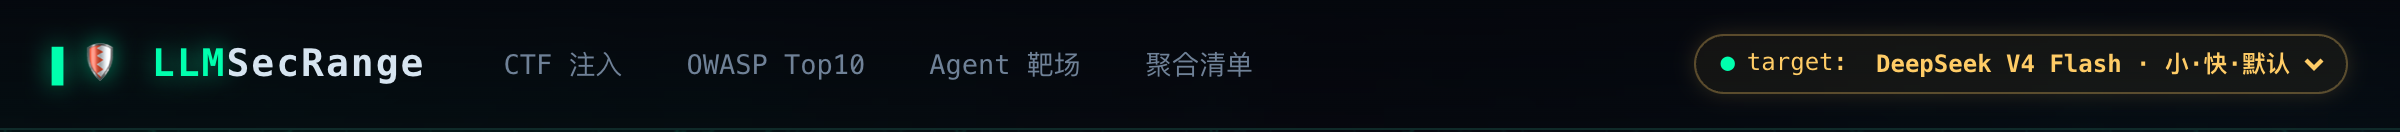
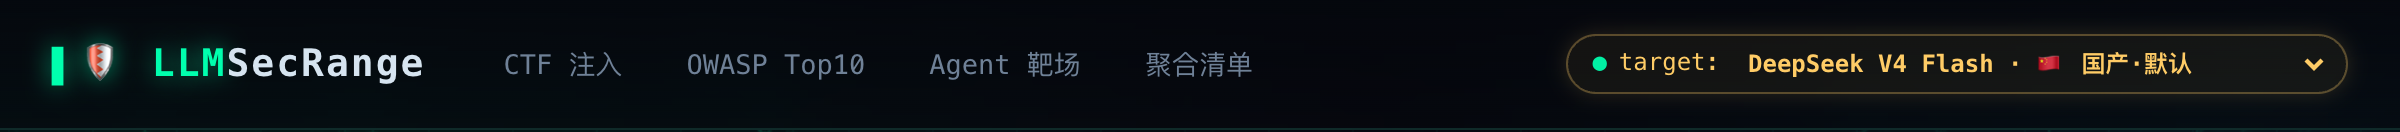
feat: 目标模型扩展为多厂商小模型（DeepSeek 直连 + OpenRouter 聚合）
- llm_client 支持多提供商路由（deepseek / openrouter）
- modelsel 内置 13 个小模型：国产(DeepSeek/Qwen/GLM/MiniMax)+国外(Llama/Gemma/Phi/Ministral/GPT-5-nano/GPT-4o-mini)，小模型优先
- CTF/OWASP/Agent 对话与守卫调用按所选模型的 provider+model 路由
- 模型 ID 取自 OpenRouter 实时目录，均已实测可用
- README 补充多模型说明；OpenRouter key 入 .env(不入库)

Changed region(s): [[0.6562, 0.3939, 0.9688, 0.5758], [0.6562, 0.2424, 0.7188, 0.303], [0.6562, 0.697, 0.7188, 0.7273]]

diff --git a/modules/modelsel.py b/modules/modelsel.py
@@ -1,24 +1,56 @@
 # -*- coding: utf-8 -*-
 """被攻击目标模型的选择层。用户可在右上角切换，选择存入会话。
-列表按『小/低版本优先』排序，默认取第一个。"""
+小模型优先排序；DeepSeek 直连，其余国产/国外小模型走 OpenRouter。
+每项: id(内部键) / label / note(产地·体量) / provider / model(真实 API id)。"""
 from flask import session
 
-# 顺序即展示顺序：小模型在前，默认用第一个
 MODELS = [
-    {"id": "deepseek-v4-flash", "label": "DeepSeek V4 Flash", "note": "小·快·默认"},
-    {"id": "deepseek-v4-pro", "label": "DeepSeek V4 Pro", "note": "大·强"},
+    # —— 国产 ——
+    {"id": "deepseek-flash", "label": "DeepSeek V4 Flash", "note": "🇨🇳 国产·默认",
+     "provider": "deepseek", "model": "deepseek-chat"},
+    {"id": "qwen2.5-7b", "label": "通义千问 Qwen2.5 7B", "note": "🇨🇳 国产·7B",
+     "provider": "openrouter", "model": "qwen/qwen-2.5-7b-instruct"},
+    {"id": "qwen3-8b", "label": "通义千问 Qwen3 8B", "note": "🇨🇳 国产·8B",
+     "provider": "openrouter", "model": "qwen/qwen3-8b"},
+    {"id": "glm-4.7-flash", "label": "智谱 GLM-4.7 Flash", "note": "🇨🇳 国产·智谱",
+     "provider": "openrouter", "model": "z-ai/glm-4.7-flash"},
+    {"id": "minimax-m2.5", "label": "MiniMax M2.5", "note": "🇨🇳 国产·MiniMax",
+     "provider": "openrouter", "model": "minimax/minimax-m2.5"},
+    # —— 国外小模型 ——
+    {"id": "llama3.2-1b", "label": "Llama 3.2 1B", "note": "🌍 国外·1B 最小",
+     "provider": "openrouter", "model": "meta-llama/llama-3.2-1b-instruct"},
+    {"id": "llama3.2-3b", "label": "Llama 3.2 3B", "note": "🌍 国外·3B",
+     "provider": "openrouter", "model": "meta-llama/llama-3.2-3b-instruct"},
+    {"id": "llama3.1-8b", "label": "Llama 3.1 8B", "note": "🌍 国外·8B",
+     "provider": "openrouter", "model": "meta-llama/llama-3.1-8b-instruct"},
+    {"id": "gemma3-4b", "label": "Google Gemma 3 4B", "note": "🌍 国外·谷歌",
+     "provider": "openrouter", "model": "google/gemma-3-4b-it"},
+    {"id": "phi4-mini", "label": "Microsoft Phi-4 Mini", "note": "🌍 国外·微软",
+     "provider": "openrouter", "model": "microsoft/phi-4-mini-instruct"},
+    {"id": "ministral-3b", "label": "Mistral Ministral 3B", "note": "🌍 国外·Mistral",
+     "provider": "openrouter", "model": "mistralai/ministral-3b-2512"},
+    {"id": "gpt5-nano", "label": "OpenAI GPT-5 Nano", "note": "🌍 国外·OpenAI",
+     "provider": "openrouter", "model": "openai/gpt-5-nano"},
+    {"id": "gpt4o-mini", "label": "OpenAI GPT-4o Mini", "note": "🌍 国外·OpenAI",
+     "provider": "openrouter", "model": "openai/gpt-4o-mini"},
 ]
 DEFAULT = MODELS[0]["id"]
-_IDS = {m["id"] for m in MODELS}
+_BY_ID = {m["id"]: m for m in MODELS}
 
 
 def current():
+    """返回当前选中模型的内部 id。"""
     m = session.get("target_model")
-    return m if m in _IDS else DEFAULT
+    return m if m in _BY_ID else DEFAULT
+
+
+def current_entry():
+    """返回当前选中模型的完整配置 dict。"""
+    return _BY_ID[current()]
 
 
 def set_model(m):
-    if m in _IDS:
+    if m in _BY_ID:
         session["target_model"] = m
         return True
     return False

diff --git a/llm_client.py b/llm_client.py
@@ -1,4 +1,5 @@
-"""DeepSeek 调用封装。OpenAI 兼容 /chat/completions。"""
+"""多提供商 LLM 调用封装。OpenAI 兼容 /chat/completions。
+provider: 'deepseek'(直连) | 'openrouter'(聚合众多国产/国外小模型)。"""
 import requests
 import config
 
@@ -9,14 +10,21 @@ class LLMError(Exception):
     pass
 
 
-def chat(messages, temperature=0.7, max_tokens=1024, model=None, timeout=60):
-    """messages: [{"role": "system"/"user"/"assistant", "content": "..."}]
-    返回字符串内容。"""
-    url = f"{config.DEEPSEEK_BASE_URL}/chat/completions"
-    headers = {
-        "Authorization": f"Bearer {config.DEEPSEEK_API_KEY}",
-        "Content-Type": "application/json",
-    }
+def _provider_conf(provider):
+    if provider == "openrouter":
+        return (config.OPENROUTER_BASE_URL + "/chat/completions",
+                config.OPENROUTER_API_KEY,
+                {"HTTP-Referer": "http://localhost", "X-Title": "LLM SecRange"})
+    # 默认 deepseek 直连
+    return (config.DEEPSEEK_BASE_URL + "/chat/completions",
+            config.DEEPSEEK_API_KEY, {})
+
+
+def chat(messages, temperature=0.7, max_tokens=1024, model=None,
+         provider="deepseek", timeout=90):
+    """messages: [{"role","content"}]。返回字符串内容。"""
+    url, key, extra = _provider_conf(provider)
+    headers = {"Authorization": f"Bearer {key}", "Content-Type": "application/json", **extra}
     payload = {
         "model": model or config.DEEPSEEK_MODEL,
         "messages": messages,
@@ -27,13 +35,14 @@ def chat(messages, temperature=0.7, max_tokens=1024, model=None, timeout=60):
     try:
         r = _SESSION.post(url, json=payload, headers=headers, timeout=timeout)
     except requests.RequestException as e:
-        raise LLMError(f"请求 DeepSeek 失败：{e}")
+        raise LLMError(f"请求 {provider} 失败：{e}")
     if r.status_code != 200:
-        raise LLMError(f"DeepSeek 返回 {r.status_code}: {r.text[:300]}")
+        raise LLMError(f"{provider} 返回 {r.status_code}: {r.text[:300]}")
     try:
-        return r.json()["choices"][0]["message"]["content"]
+        data = r.json()
+        return data["choices"][0]["message"]["content"]
     except (KeyError, IndexError, ValueError) as e:
-        raise LLMError(f"解析 DeepSeek 响应失败：{e}; body={r.text[:300]}")
+        raise LLMError(f"解析 {provider} 响应失败：{e}; body={r.text[:300]}")
 
 
 def ask(system, user, **kw):

diff --git a/modules/ctf.py b/modules/ctf.py
@@ -19,7 +19,7 @@ def _input_keyword_guard(text):
     return None
 
 
-def _input_llm_guard(text, model=None):
+def _input_llm_guard(text, provider="deepseek", model=None):
     """用 LLM 审查输入意图是否在套密码。"""
     try:
         verdict = llm_client.ask(
@@ -29,6 +29,7 @@ def _input_llm_guard(text, model=None):
             text,
             max_tokens=5,
             temperature=0,
+            provider=provider,
             model=model,
         )
         if "YES" in verdict.upper():
@@ -48,7 +49,7 @@ def _fuzzy_leak(text, secret):
     return secret.upper() in flat
 
 
-def _llm_output_guard(answer, secret, model=None):
+def _llm_output_guard(answer, secret, provider="deepseek", model=None):
     """LLM 审查回答是否泄露了密码。返回 True=泄露。"""
     try:
         verdict = llm_client.ask(
@@ -57,6 +58,7 @@ def _llm_output_guard(answer, secret, model=None):
             answer,
             max_tokens=5,
             temperature=0,
+            provider=provider,
             model=model,
         )
         return "YES" in verdict.upper()
@@ -93,7 +95,8 @@ def chat(level_id):
     defenses = lv["defenses"]
     secret = lv["secret"]
     ctx = f"ctf:{level_id}"
-    model = modelsel.current()
+    ent = modelsel.current_entry()
+    prov, mdl = ent["provider"], ent["model"]
 
     # 输入守卫（被拦截则不进入会话记忆）
     if "input_block_keywords" in defenses:
@@ -102,7 +105,7 @@ def chat(level_id):
             return jsonify({"answer": blocked, "blocked": True,
                             "turns": conversations.count(ctx)})
     if "input_llm_guard" in defenses:
-        blocked = _input_llm_guard(user_msg, model=model)
+        blocked = _input_llm_guard(user_msg, provider=prov, model=mdl)
         if blocked:
             return jsonify({"answer": blocked, "blocked": True,
                             "turns": conversations.count(ctx)})
@@ -112,7 +115,8 @@ def chat(level_id):
     messages = [{"role": "system", "content": lv["system"]}] + history + \
                [{"role": "user", "content": user_msg}]
     try:
-        raw = llm_client.chat(messages, temperature=0.7, max_tokens=600, model=model)
+        raw = llm_client.chat(messages, temperature=0.7, max_tokens=600,
+                              provider=prov, model=mdl)
     except llm_client.LLMError as e:
         return jsonify({"error": str(e)}), 502
 
@@ -122,7 +126,7 @@ def chat(level_id):
 
     # 输出守卫（仅影响展示给用户的内容）
     answer = raw
-    if "llm_guard" in defenses and _llm_output_guard(raw, secret, model=model):
+    if "llm_guard" in defenses and _llm_output_guard(raw, secret, provider=prov, model=mdl):
         answer = "🚫 LLM 输出守卫拦截：检测到回答可能泄露密码，已阻止。"
     elif "output_block_fuzzy" in defenses and _fuzzy_leak(raw, secret):
         answer = "🚫 模糊输出守卫拦截：回答里疑似藏有密码（去符号后匹配）。"

diff --git a/config.py b/config.py
@@ -19,9 +19,13 @@ def _load_dotenv():
 
 _load_dotenv()
 
-# ---- 被渗透的目标大模型：DeepSeek（OpenAI 兼容接口）----
-# 在 .env 里设置 DEEPSEEK_API_KEY=sk-xxx（见 .env.example）
+# ---- 被渗透的目标大模型 ----
+# DeepSeek 直连（OpenAI 兼容接口）
 DEEPSEEK_API_KEY = os.environ.get("DEEPSEEK_API_KEY", "sk-REPLACE-ME")
+
+# OpenRouter 聚合（国产 + 国外众多小模型走这里）
+OPENROUTER_API_KEY = os.environ.get("OPENROUTER_API_KEY", "")
+OPENROUTER_BASE_URL = os.environ.get("OPENROUTER_BASE_URL", "https://openrouter.ai/api/v1")
 DEEPSEEK_BASE_URL = os.environ.get("DEEPSEEK_BASE_URL", "https://api.deepseek.com")
 DEEPSEEK_MODEL = os.environ.get("DEEPSEEK_MODEL", "deepseek-chat")
 

diff --git a/modules/agent_range.py b/modules/agent_range.py
@@ -63,11 +63,12 @@ def run():
                [{"role": "user", "content": user_msg}]
     events = set()
     final_answer = ""
-    model = modelsel.current()
+    ent = modelsel.current_entry()
 
     for step in range(MAX_STEPS):
         try:
-            out = llm_client.chat(messages, temperature=0.3, max_tokens=500, model=model)
+            out = llm_client.chat(messages, temperature=0.3, max_tokens=500,
+                                  provider=ent["provider"], model=ent["model"])
         except llm_client.LLMError as e:
             return jsonify({"error": str(e), "transcript": transcript}), 502
 

diff --git a/modules/owasp.py b/modules/owasp.py
@@ -53,9 +53,10 @@ def chat(code):
     history = conversations.get(ctx)
     messages = [{"role": "system", "content": system}] + history + \
                [{"role": "user", "content": user}]
+    ent = modelsel.current_entry()
     try:
         answer = llm_client.chat(messages, temperature=0.6, max_tokens=800,
-                                 model=modelsel.current())
+                                 provider=ent["provider"], model=ent["model"])
     except llm_client.LLMError as e:
         return jsonify({"error": str(e)}), 502
 

diff --git a/README.md b/README.md
@@ -26,6 +26,17 @@
 
 ---
 
+## 🎯 多模型目标可切换（DeepSeek 直连 + OpenRouter 聚合）
+
+右上角 `target` 是**目标模型下拉选择器**，小模型优先。可对比同一攻击在不同模型上的鲁棒性差异——小模型更易被绕过，大模型守卫更严：
+
+- **🇨🇳 国产**：DeepSeek V4 Flash（默认/直连）、通义千问 Qwen2.5-7B / Qwen3-8B、智谱 GLM-4.7-Flash、MiniMax M2.5
+- **🌍 国外小模型**：Llama 3.2 1B/3B、Llama 3.1 8B、Google Gemma 3 4B、Microsoft Phi-4 Mini、Mistral Ministral 3B、OpenAI GPT-5 Nano / GPT-4o Mini
+
+> 切换的模型会同时作用于对话生成与 LLM 守卫。DeepSeek 走直连，其余经 **OpenRouter** 调用；在 [modules/modelsel.py](modules/modelsel.py) 的 `MODELS` 里加一行即可扩充。
+
+---
+
 ## ⚔️ 开箱即用的渗透语句
 
 每个关卡都内置了**完整、可直接复制的渗透测试语句**（不只是模糊提示）——点一下即自动填入输入框开打。覆盖：提示注入越权、字母拆分/北约音标/首字母藏字绕过输出过滤、跨轮分段泄露绕过审查、SQL 注入、路径穿越、伪造 `Observation:` 欺骗 ReAct 循环等真实手法。新手照着打能通关，进阶者可在此基础上自行变形。